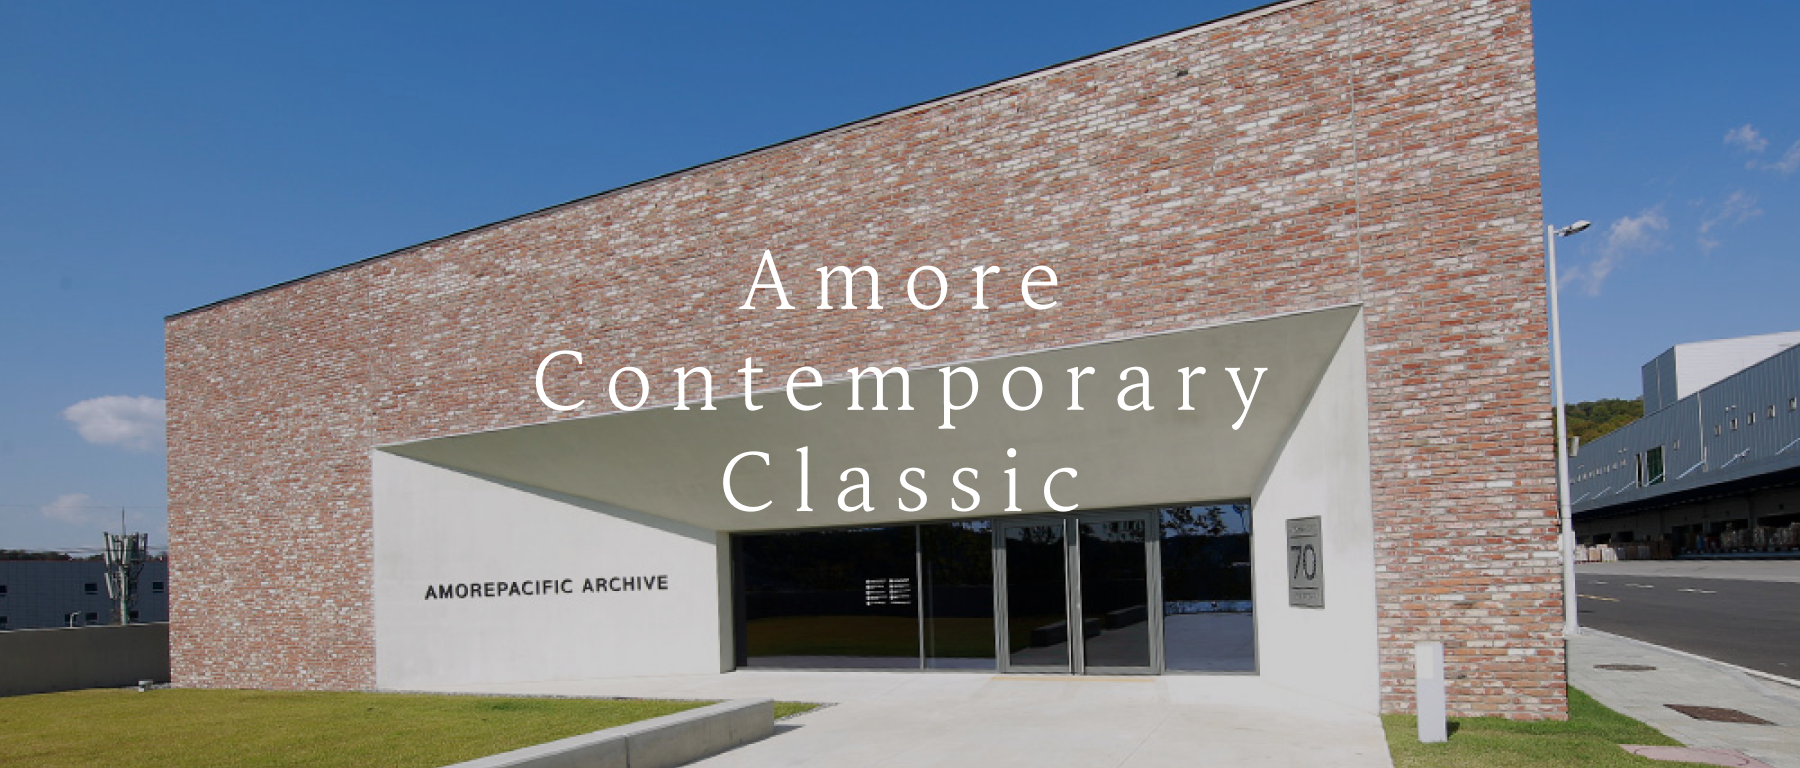
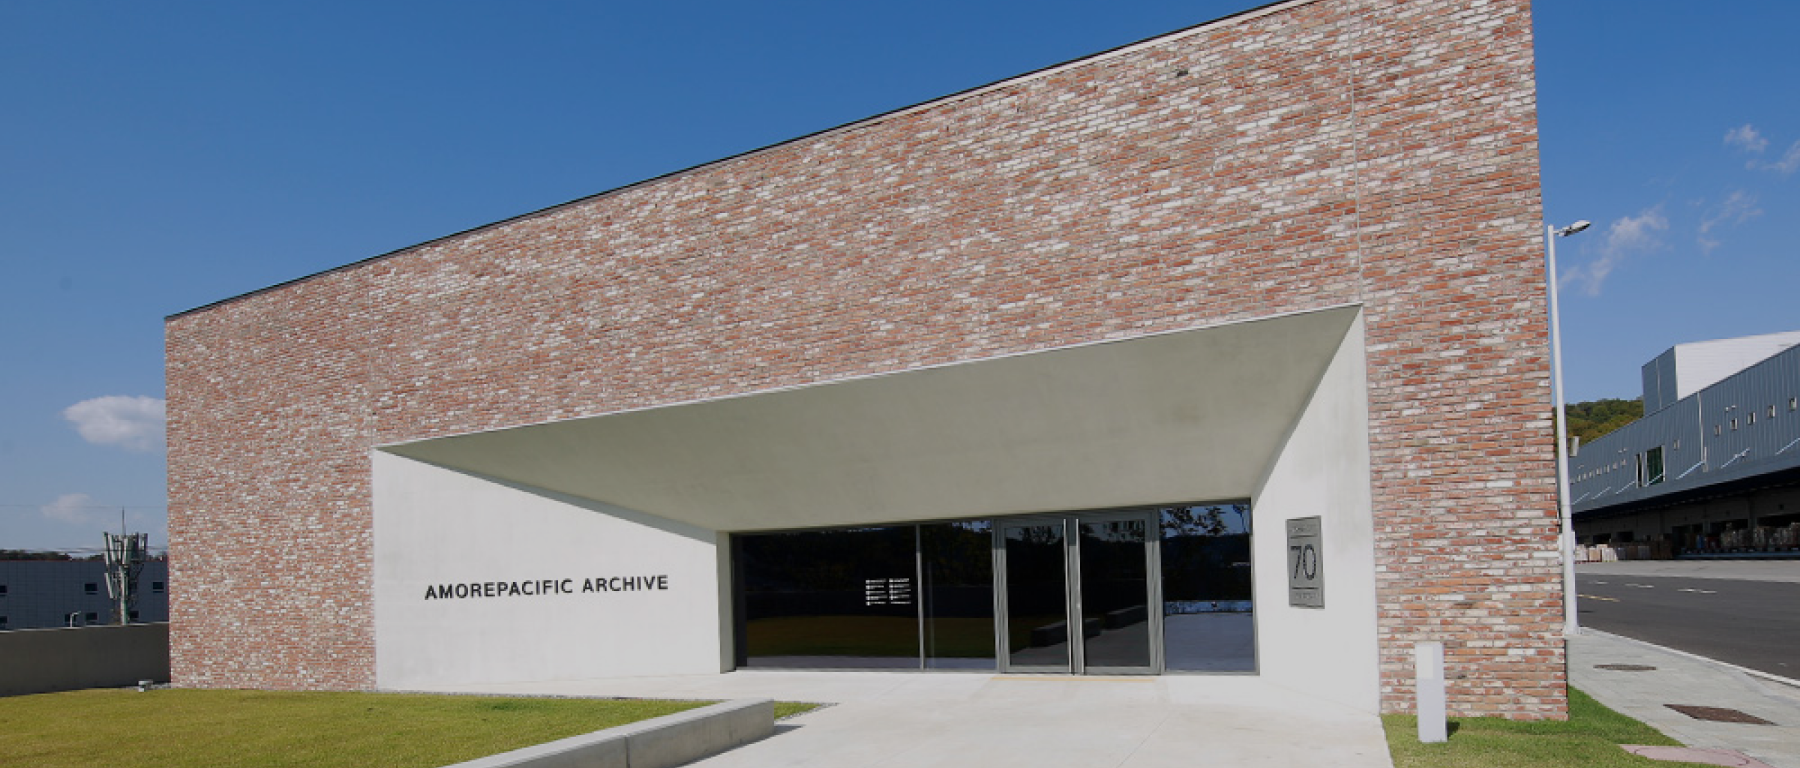
update type_a

diff --git a/type_A/css/about_us.css b/type_A/css/about_us.css
@@ -25,9 +25,31 @@
     padding: 0 60px;
     box-sizing: border-box;
     transition: padding 0.8s ease-in-out;
+    position: relative;
 }
 .sec2 img{
     width: 100%;
+}
+.sec2 p{
+    position: absolute;
+    top: 50%;
+    left: 50%;
+    width: max-content;
+    height: max-content;
+    overflow: hidden;
+    transform: translate(-50%, -50%);
+    text-align: center;
+    color: #FFF;
+    font-size: 84px;
+    font-weight: 500;
+    line-height: normal;
+    animation: text_sort 0.5s ease-in-out forwards;
+    padding-bottom: 100px;
+    opacity: 0;
+}
+@keyframes text_sort {
+    0%{padding-bottom: 100px; opacity: 0;}
+    100%{padding-bottom: 0px; opacity: 1;}
 }
 .sec3{
     padding: 150px 0 250px;
@@ -39,6 +61,9 @@
 }
 .swiper1 .img_slide{
     width: 1600px !important;
+}
+.swiper1 .img_slide:nth-of-type(2)>img{
+    filter: brightness(70%);
 }
 .swiper1 p{
     width: 100%;

diff --git a/type_A/type_A_commitments.html b/type_A/type_A_commitments.html
@@ -6,7 +6,7 @@
     <title>type_A_Commitments</title>
     <link rel="stylesheet" href="./css/reset.css">
     <link rel="stylesheet" href="./css/common.css">
-    <link rel="stylesheet" href="./css/our_culture.css">
+    <link rel="stylesheet" href="./css/commitments.css">
     <link rel="stylesheet" href="https://cdn.jsdelivr.net/npm/swiper@10/swiper-bundle.min.css">
     <script src="https://cdn.jsdelivr.net/npm/swiper@10/swiper-bundle.min.js"></script>
 </head>
@@ -32,6 +32,7 @@
         </section>
         <section class="sec2">
             <img src="./img/commitments/sec1_img.png">
+            <p>Amore<br>Beautiful World</p>
         </section>
         <section class="sec3">
             <div class="swiper1">

diff --git a/type_A/css/commitments.css b/type_A/css/commitments.css
@@ -67,6 +67,12 @@
 .swiper1 .img_slide:nth-of-type(2)>img{
     filter: brightness(70%)
 }
+.swiper1 .img_slide:nth-of-type(3)>img{
+    filter: brightness(70%)
+}
+.swiper1 .img_slide:nth-of-type(4)>img{
+    filter: brightness(70%)
+}
 .swiper1 p{
     width: 100%;
     position: absolute;

diff --git a/type_A/type_A_our_culture.html b/type_A/type_A_our_culture.html
@@ -32,6 +32,7 @@
         </section>
         <section class="sec2">
             <img src="./img/our_culture/sec1_img.png">
+            <p>Amore<br>Contemporary<br>Classic</p>
         </section>
         <section class="sec3">
             <div class="swiper1">

diff --git a/type_A/type_A_about_us.html b/type_A/type_A_about_us.html
@@ -32,6 +32,7 @@
         </section>
         <section class="sec2">
             <img src="./img/about_us/sec2_back.png">
+            <p>Live Your New Beauty</p>
         </section>
         <section class="sec3">
             <div class="swiper1">
